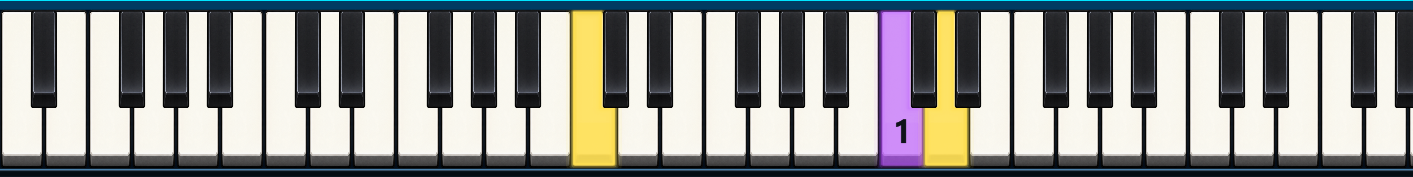
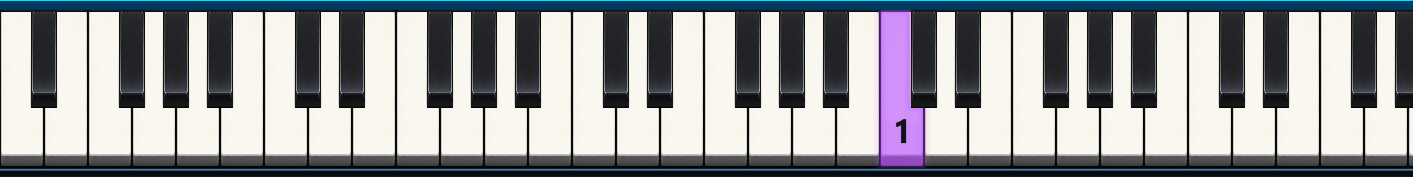
fix: tighten arcade key seams and align initial style

Changed region(s): [[0.0, 0.0565, 1.0, 0.9605]]

diff --git a/src/render/KeyboardLayer.ts b/src/render/KeyboardLayer.ts
@@ -279,6 +279,7 @@ export class KeyboardLayer {
       (blackHeight - digitRoom - blackBevel) / BLACK_STICKER.height
     );
 
+    const whiteGap = this.painted && this.style === "arcade" ? 0.4 : 1;
     for (const [pitch, sprite] of this.keySprites) {
       const key = keys.get(pitch);
       const sticker = this.stickerSprites.get(pitch);
@@ -287,9 +288,9 @@ export class KeyboardLayer {
       if (!key) continue;
       this.placeKey(
         sprite,
-        key.x + (key.black ? 0 : 0.5),
+        key.x + (key.black ? 0 : whiteGap / 2),
         keyboardTop,
-        key.width - (key.black ? 0 : 1),
+        key.width - (key.black ? 0 : whiteGap),
         key.black ? blackHeight : keyboardHeight
       );
       if (!sticker) continue;
@@ -427,8 +428,10 @@ export class KeyboardLayer {
       return;
     }
     const scale = width / sprite.texture.width;
-    sprite.scale.set(scale);
-    sprite.setSize(sprite.texture.width, height / scale);
+    // Stretch the centre horizontally to keep arcade rims thin at every key width.
+    const centreStretch = this.style === "arcade" ? 2 : 1;
+    sprite.scale.set(scale / centreStretch, scale);
+    sprite.setSize(sprite.texture.width * centreStretch, height / scale);
   }
 
   /** Key faces at this keyboard's size; the old ones are freed once replaced. */

diff --git a/src/render/FallingNotesView.ts b/src/render/FallingNotesView.ts
@@ -125,7 +125,7 @@ export class FallingNotesView {
   /** Settings made before `mount`, applied to the layers once they exist. */
   private noteNames: FallingNoteNames | undefined;
   private cards = true;
-  private keyStyle: KeyStyle = "classic";
+  private keyStyle: KeyStyle = "arcade";
   private cameraPrefs: CameraPrefs = DEFAULT_CAMERA;
 
   async mount(host: HTMLElement): Promise<void> {
